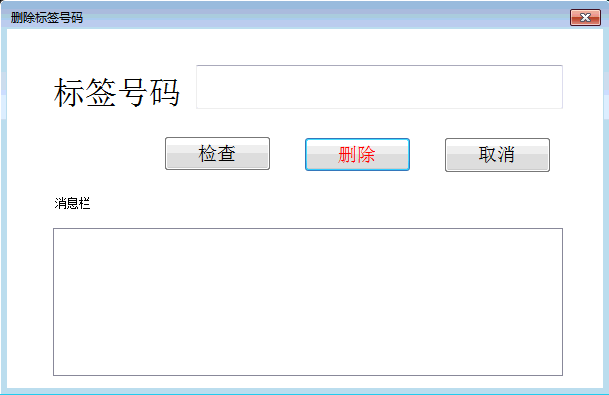
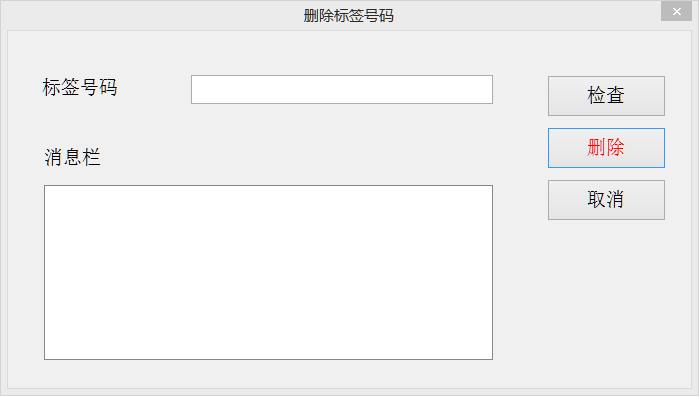
变动
1. 增加opc param的称重标签地址。
2. 增加变动边缘预留GetEdgeSpace函数。
3. 增加查找号码窗口。

modified:   doc/newopccfg.sql
modified:   doc/trainning/deletelabel.png
modified:   src/yadascanrobot/yidascan/DataAccess/OPCParam.cs
modified:   src/yadascanrobot/yidascan/FrmMain.cs
modified:   src/yadascanrobot/yidascan/LableCodeBllPro.cs
new file:   src/yadascanrobot/yidascan/wfind.Designer.cs
new file:   src/yadascanrobot/yidascan/wfind.cs
new file:   src/yadascanrobot/yidascan/wfind.resx
modified:   src/yadascanrobot/yidascan/yidascan.csproj

diff --git a/src/yadascanrobot/yidascan/wfind.Designer.cs b/src/yadascanrobot/yidascan/wfind.Designer.cs
@@ -1,0 +1,95 @@
+namespace yidascan {
+    partial class wfind {
+        /// <summary>
+        /// Required designer variable.
+        /// </summary>
+        private System.ComponentModel.IContainer components = null;
+
+        /// <summary>
+        /// Clean up any resources being used.
+        /// </summary>
+        /// <param name="disposing">true if managed resources should be disposed; otherwise, false.</param>
+        protected override void Dispose(bool disposing) {
+            if (disposing && (components != null)) {
+                components.Dispose();
+            }
+            base.Dispose(disposing);
+        }
+
+        #region Windows Form Designer generated code
+
+        /// <summary>
+        /// Required method for Designer support - do not modify
+        /// the contents of this method with the code editor.
+        /// </summary>
+        private void InitializeComponent() {
+            this.label1 = new System.Windows.Forms.Label();
+            this.btnSearch = new System.Windows.Forms.Button();
+            this.lbx = new System.Windows.Forms.ListBox();
+            this.mtxCode = new System.Windows.Forms.MaskedTextBox();
+            this.SuspendLayout();
+            // 
+            // label1
+            // 
+            this.label1.AutoSize = true;
+            this.label1.Location = new System.Drawing.Point(24, 40);
+            this.label1.Margin = new System.Windows.Forms.Padding(5, 0, 5, 0);
+            this.label1.Name = "label1";
+            this.label1.Size = new System.Drawing.Size(47, 19);
+            this.label1.TabIndex = 0;
+            this.label1.Text = "号码";
+            // 
+            // btnSearch
+            // 
+            this.btnSearch.Location = new System.Drawing.Point(349, 30);
+            this.btnSearch.Name = "btnSearch";
+            this.btnSearch.Size = new System.Drawing.Size(75, 30);
+            this.btnSearch.TabIndex = 2;
+            this.btnSearch.Text = "查找";
+            this.btnSearch.UseVisualStyleBackColor = true;
+            this.btnSearch.Click += new System.EventHandler(this.btnSearch_Click);
+            // 
+            // lbx
+            // 
+            this.lbx.FormattingEnabled = true;
+            this.lbx.ItemHeight = 19;
+            this.lbx.Location = new System.Drawing.Point(28, 90);
+            this.lbx.Name = "lbx";
+            this.lbx.Size = new System.Drawing.Size(442, 213);
+            this.lbx.TabIndex = 3;
+            // 
+            // mtxCode
+            // 
+            this.mtxCode.Location = new System.Drawing.Point(79, 30);
+            this.mtxCode.Mask = "0000 0000 0000";
+            this.mtxCode.Name = "mtxCode";
+            this.mtxCode.Size = new System.Drawing.Size(251, 29);
+            this.mtxCode.TabIndex = 4;
+            // 
+            // wfind
+            // 
+            this.AutoScaleDimensions = new System.Drawing.SizeF(10F, 19F);
+            this.AutoScaleMode = System.Windows.Forms.AutoScaleMode.Font;
+            this.ClientSize = new System.Drawing.Size(482, 325);
+            this.Controls.Add(this.mtxCode);
+            this.Controls.Add(this.lbx);
+            this.Controls.Add(this.btnSearch);
+            this.Controls.Add(this.label1);
+            this.Font = new System.Drawing.Font("SimSun", 14F, System.Drawing.FontStyle.Regular, System.Drawing.GraphicsUnit.Point, ((byte)(134)));
+            this.FormBorderStyle = System.Windows.Forms.FormBorderStyle.FixedDialog;
+            this.Margin = new System.Windows.Forms.Padding(5, 5, 5, 5);
+            this.Name = "wfind";
+            this.Text = "查找号码";
+            this.ResumeLayout(false);
+            this.PerformLayout();
+
+        }
+
+        #endregion
+
+        private System.Windows.Forms.Label label1;
+        private System.Windows.Forms.Button btnSearch;
+        private System.Windows.Forms.ListBox lbx;
+        private System.Windows.Forms.MaskedTextBox mtxCode;
+    }
+}

diff --git a/src/yadascanrobot/yidascan/FrmMain.cs b/src/yadascanrobot/yidascan/FrmMain.cs
@@ -385,6 +385,19 @@ namespace yidascan {
             RefreshRobotMenuState();
         }
 
+        private string GetLabelCodeWhenWeigh() {
+            var code1 = opcWeigh.ReadString(opcParam.WeighParam.LabelPart1);
+            var code2 = opcWeigh.ReadString(opcParam.WeighParam.LabelPart2);
+            return code1 + code2;
+        }
+
+        private bool IsPastCode(string curcode) {
+            lock (taskQ) {
+                var last = taskQ.CacheQ.LastOrDefault();
+                return last != null && last.LCode == curcode;
+            }
+        }
+
         private void WeighTask() {
             const int TO_WEIGH = 1;
             const int SUCCESS = 0;
@@ -396,10 +409,26 @@ namespace yidascan {
             logOpt.Write(JsonConvert.SerializeObject(opcParam.WeighParam), LogType.NORMAL, LogViewType.OnlyFile);
             Task.Factory.StartNew(() => {
                 while (isrun) {
+                    Thread.Sleep(OPCClient.DELAY * 200);
+
                     try {
                         var signal = opcWeigh.ReadInt(opcParam.WeighParam.GetWeigh);
                         if (signal == TO_WEIGH) {
+                            var codeFromPlc = GetLabelCodeWhenWeigh();
+
+                            if (IsPastCode(codeFromPlc)) {
+                                // 复位
+                                opcWeigh.Write(opcParam.WeighParam.GetWeigh, 0);
+                                logOpt.Write($"称重复位, 原因: 重复称重。plc标签{codeFromPlc}", LogType.NORMAL, LogViewType.Both);
+                                continue;
+                            }
+
                             var code = taskQ.GetWeighQ();
+
+                            if (code != null && codeFromPlc != code.LCode) {
+                                logOpt.Write($"无效称重。plc标签{codeFromPlc}, 称重队列标签{code.LCode}", LogType.NORMAL, LogViewType.Both);
+                                continue;
+                            }
 
                             if (code != null) {
                                 signal = NotifyWeigh(code.LCode, false) ? SUCCESS : FAIL;
@@ -416,14 +445,12 @@ namespace yidascan {
                                     showLabelQue(taskQ.CacheQ, lsvCacheBefor);//加到缓存列表中显示
                                 }
                             } else {
-                                logOpt.Write($"称重信号无对应数据");
+                                logOpt.Write($"!称重信号无对应的队列号码, opc称重标签{codeFromPlc}");
                             }
                         }
                     } catch (Exception ex) {
                         logOpt.Write($"!weigh task: {ex.ToString()}", LogType.NORMAL);
                     }
-
-                    Thread.Sleep(OPCClient.DELAY * 200);
                 }
             });
 

diff --git a/src/yadascanrobot/yidascan/LableCodeBllPro.cs b/src/yadascanrobot/yidascan/LableCodeBllPro.cs
@@ -208,7 +208,8 @@ namespace yidascan {
         /// <returns></returns>
         private static decimal expectedWidth(decimal installedWidth, LableCode l1, LableCode l2) {
             // 预期宽度
-            var expected = installedWidth + l1.Diameter + clsSetting.RollSep + l2.Diameter + clsSetting.EdgeSpace;
+            var edgespace = GetEdgeSpace(FrmMain.taskQ.CacheSide, l1.ToLocation, clsSetting.EdgeSpace);
+            var expected = installedWidth + l1.Diameter + clsSetting.RollSep + l2.Diameter + edgespace;
             return expected;
         }
 
@@ -226,7 +227,8 @@ namespace yidascan {
         /// <returns></returns>
         private static decimal expectedWidth(LableCode l1) {
             // 预期宽度
-            var expected = Math.Abs(l1.Cx + l1.Cy) + clsSetting.EdgeSpace;
+            var edgespace = GetEdgeSpace(FrmMain.taskQ.CacheSide, l1.ToLocation, clsSetting.EdgeSpace);
+            var expected = Math.Abs(l1.Cx + l1.Cy) + edgespace;
             return expected;
         }
 
@@ -254,7 +256,7 @@ namespace yidascan {
 
         private static PanelFullState findSmallerFromCachedRollsPro(List<LableCode> cachedRolls, LableCode current, decimal installedWidth, decimal max) {
             // 预计宽度超出
-            var e = clsSetting.EdgeSpace;
+            var e = GetEdgeSpace(FrmMain.taskQ.CacheSide, current.ToLocation, clsSetting.EdgeSpace);
             var rt = cachedRolls.Where(x => (expectedWidthNoEdgeSpace(installedWidth, current, x) > max - e))
                 .OrderBy(x => x.Diameter)
                 .FirstOrDefault();
@@ -320,6 +322,22 @@ namespace yidascan {
                 fp = FloorPerformance.BothFinish;
             return fp;
         }
+
+        /// <summary>
+        /// 取某板最佳边缘预留
+        /// </summary>
+        /// <param name="tolocation">交地</param>
+        /// <param name="cachq">缓存位队列</param>
+        /// <param name="defaultEdgeSpace">默认的边缘预留</param>
+        /// <returns></returns>
+        private static decimal GetEdgeSpace(IEnumerable<CachePos> cachq, string tolocation, decimal defaultEdgeSpace) {
+            lock(cachq) {
+                var maxd = cachq.Where(x => x != null && x.labelcode.ToLocation == tolocation)
+                    .Max(x => x.labelcode.Diameter);
+                return Math.Max(maxd, defaultEdgeSpace);
+            }
+        }
+
         #endregion
 
         #region PUBLIC_FUNCTIONS

diff --git a/src/yadascanrobot/yidascan/wfind.cs b/src/yadascanrobot/yidascan/wfind.cs
@@ -1,0 +1,50 @@
+using System;
+using System.Data;
+using System.Linq;
+using System.Windows.Forms;
+
+using yidascan.DataAccess;
+
+namespace yidascan {
+    public partial class wfind : Form {
+        public wfind() {
+            InitializeComponent();
+        }
+              
+        private void btnSearch_Click(object sender, EventArgs e) {
+            var key = shrink(mtxCode.Text);
+            if (!string.IsNullOrEmpty(key)) { return; }
+
+            var c = LableCode.QueryByLCode(key);
+            if (c != null) {
+                showlabel(c);
+            } else {
+                showwarning(key);
+            }
+        }
+
+        #region PRIVATE
+        void showlabel(LableCode c) {
+
+            lbx.Items.Insert(0, $"交地: {c.ToLocation}");
+            lbx.Items.Insert(0, $"板号: {c.PanelNo}");
+            lbx.Items.Insert(0, $"号码: {c.LCode}");
+            lbx.Items.Insert(0, $"长度: {c.Length} 直径: {c.Diameter}");
+            lbx.Items.Insert(0, $"层: {c.Floor} 位置: {c.FloorIndex}");
+            lbx.Items.Insert(0, $"板上坐标: {c.Coordinates}");
+            lbx.Items.Insert(0, $"更新时间: {c.UpdateDate.ToString()}");
+            lbx.Items.Insert(0, $"---------------------");
+        }
+
+        private void showwarning(string c) {
+            lbx.Items.Insert(0, $"号码 {c} 没有找到。");
+            lbx.Items.Insert(0, $"---------------------");
+        }
+
+        private static string shrink(string k) {
+            var s = k.Where(x => !string.IsNullOrEmpty(x.ToString()));
+            return string.Join("", s);
+        }
+        #endregion
+    }
+}

diff --git a/src/yadascanrobot/yidascan/DataAccess/OPCParam.cs b/src/yadascanrobot/yidascan/DataAccess/OPCParam.cs
@@ -112,6 +112,8 @@ namespace yidascan.DataAccess {
         /// 称重
         /// </summary>
         public string GetWeigh { get; set; }
+        public string LabelPart1 { get; set; }
+        public string LabelPart2 { get; set; }
 
         public const string CFG = "Weigh";
         /// <summary>
